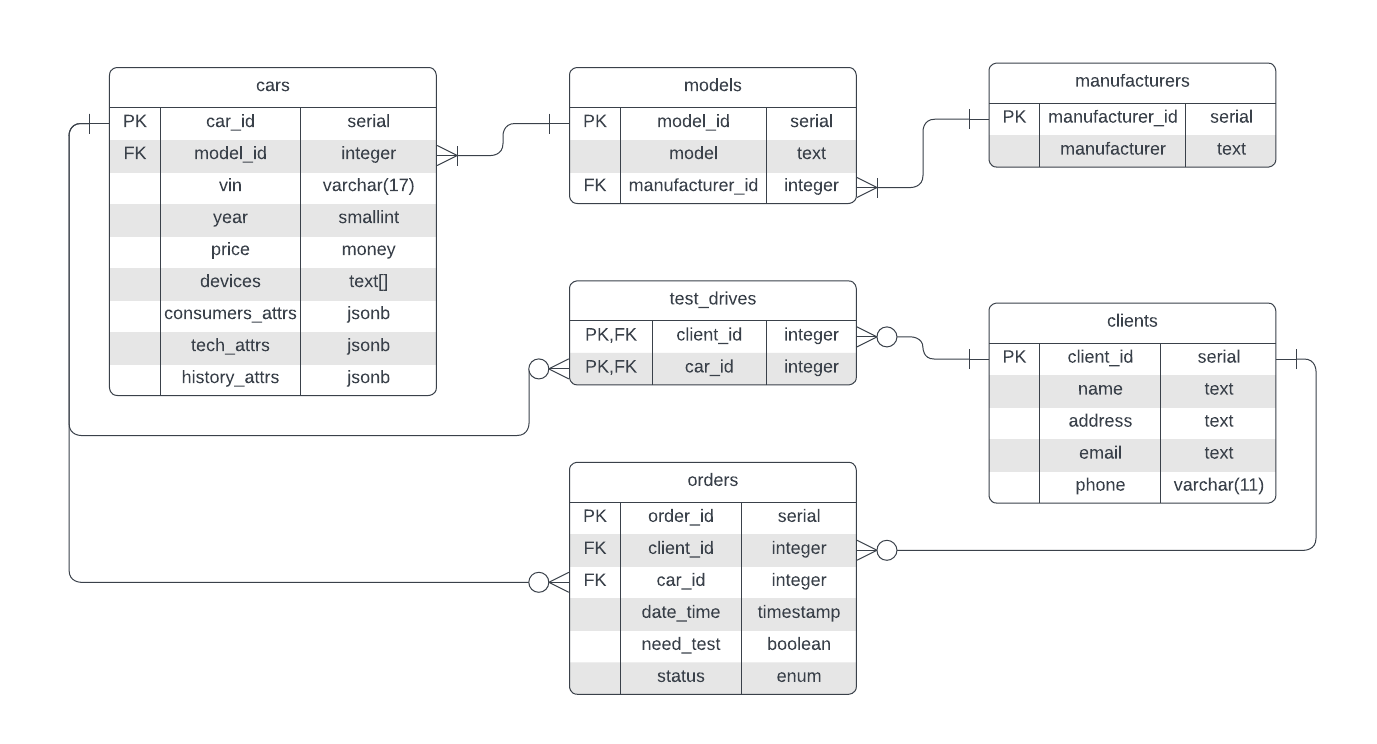
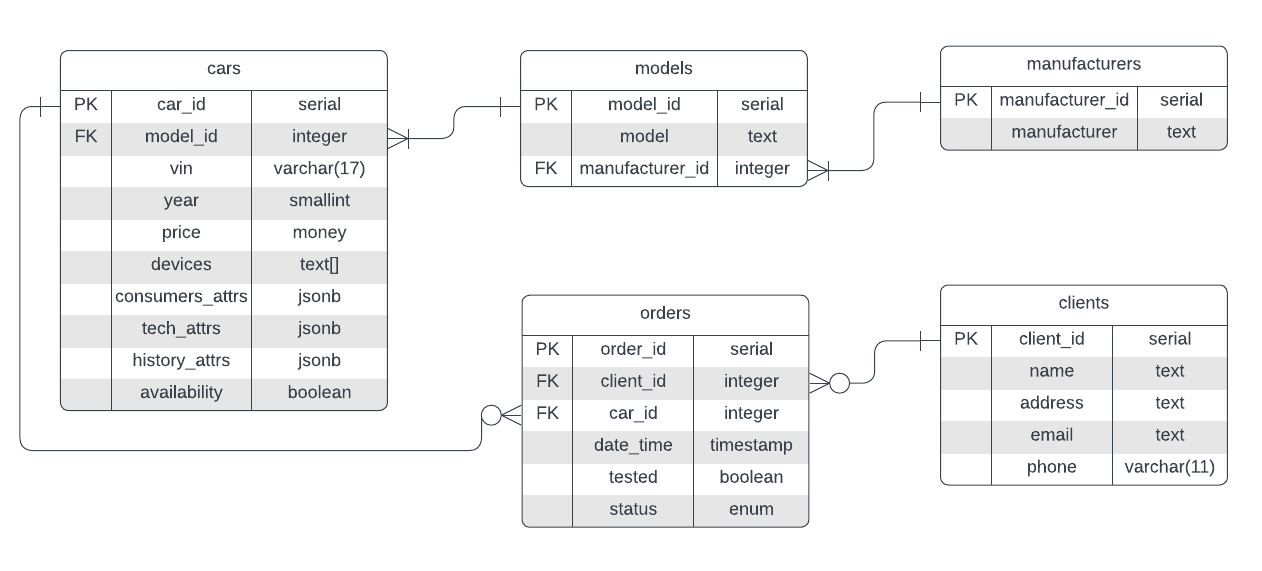
Test-drives fixes

diff --git a/README.md b/README.md
@@ -7,19 +7,19 @@
 * PostgreSQL
 * Файлы создания и заполнения БД лежат в src/main/resources/sql/
 * Характеристики автомобилей хранятся в jsonb-словарях - это позволяет [без потери в производительности](https://habr.com/ru/post/475178/) использовать как стандартные характеристики, так и добавлять при желании новые для данного автомобиля, не внося изменений в структуру БД. 
-* Статусы заказа: "В работе", "Отменён", "Завершён", "На тест-драйве".
+* Статусы заказа: "В работе", "Отменён", "Ожидание оплаты", "Оплачен", "Завершён", "На тест-драйве".
 
 ## Описание страниц
 ![Схема навигации](./pages.png "Схема навигации")
 
 ### **Главная**
 * Мини-дэшборд с некоторой статистикой по базе данных, например, количество автомобилей в наличии, в тест-драйве, число активных заказов и т. п.
-* Меню, содержащее ссылки на основные страницы сайта: каталог автомобилей, список моделей, список производителей, список клиентов, список заказов.
+* Меню, содержащее ссылки на основные страницы сайта: главная, каталог автомобилей, список моделей, список производителей, список клиентов, список заказов. Меню доступно на всех страницах сайта.
 
 ### **Автомобили**
 #### **Каталог автомобилей**
 * По умолчанию выводится список всех автомобилей с пагинацией по страницам. Поле поиска по модели, кнопка "Найти". Поля фильтров, позволяющие задать характеристики автомобиля, кнопка применения фильтров. Кнопки сортировки автомобилей по цене, году выпуска, пробегу.
-* В списке в карточке каждого автомобиля приведена краткая информация о нём (производитель, модель, год выпуска, пробег, цена). По клику на модель можно перейти на страницу модели. По клику на производителя можно перейти на страницу производителя. Кнопка "Удалить", удаляющая автомобиль из БД (каскадно удаляются все заказы и тест-драйвы). Кнопка "Редактировать", переводящая на страницу редактирования автомобиля. Кнопка "Посмотреть", переводяшая на страницу автомобиля.
+* В списке в карточке каждого автомобиля приведена краткая информация о нём (производитель, модель, год выпуска, пробег, наличие, цена). По клику на модель можно перейти на страницу модели. По клику на производителя можно перейти на страницу производителя. Кнопка "Удалить", удаляющая автомобиль из БД (каскадно удаляются все нерабочие заказы). Кнопка "Редактировать", переводящая на страницу редактирования автомобиля. Кнопка "Посмотреть", переводяшая на страницу автомобиля.
 * Кнопка "Добавить автомобиль", переход на страницу добавления автомобиля.
 
 #### **Добавление автомобиля**
@@ -37,10 +37,10 @@
 #### **Страница автомобиля**
 * Информация об автомобиле (характеристики, кликабельные ссылки на клиентов, бравших тест-драйв). По клику на производителя переход на страницу производителя, по клику на модель - на страницу модели.
 * Кнопка "Редактировать", переводящая на страницу редактирования автомобиля. 
-* Кнопка "Удалить", удаляющая автомобиль из БД (каскадно удаляются все заказы и тест-драйвы).
+* Кнопка "Удалить", удаляющая автомобиль из БД (каскадно удаляются все нерабочие заказы).
 
 #### **Редактирование автомобиля**
-Форма редактирования автомобиля с различными полями. Аналогично добавлению.
+Форма редактирования автомобиля с различными полями. Аналогично добавлению. Также можно отредактировать поле "Наличие" (В наличиии или нет).
 
 ### **Модели**
 #### **Список моделей**
@@ -75,7 +75,7 @@
 ### **Клиенты**
 #### **Список клиентов**
 * По умолчанию выводится список всех клиентов с пагинацией по страницам. Поле поиска по ФИО, кнопка "Найти". Поля фильтров, позволяющие задать атрибуты заказов, кнопка применения фильтров.
-* В списке в карточке каждого клиента приведена краткая информация о нём (ФИО, телефон, email). Кнопка "Удалить", удаляющая клиента из БД (каскадно все его заказы и тест-драйвы). Кнопка "Редактировать", переводящая на страницу редактирования клиента. Кнопка "Посмотреть", переводяшая на страницу клиента.
+* В списке в карточке каждого клиента приведена краткая информация о нём (ФИО, телефон, email). Кнопка "Удалить", удаляющая клиента из БД (каскадно все его нерабочие заказы). Кнопка "Редактировать", переводящая на страницу редактирования клиента. Кнопка "Посмотреть", переводяшая на страницу клиента.
 * Кнопка "Добавить клиента", переход на страницу добавления клиента.
 
 #### **Добавление клиента**
@@ -91,7 +91,7 @@
 * Информация о клиенте (id, ФИО, адрес, телефон, email).
 * Список заказов клиента.
 * Кнопка "Редактировать", переводящая на страницу редактирования клиента. 
-* Кнопка "Удалить", удаляющая клиента из БД (каскадно все его заказы и тест-драйвы).
+* Кнопка "Удалить", удаляющая клиента из БД (каскадно все его нерабочие заказы).
 
 #### **Редактирование клиента**
 Форма редактирования клиента с различными полями. Аналогично добавлению.
@@ -99,23 +99,21 @@
 ### **Заказы**
 #### **Список заказов**
 * По умолчанию выводится список всех заказов с пагинацией по страницам. Поле поиска по id заказа, кнопка "Найти". Поля фильтров, позволяющие задать атрибуты заказов, кнопка применения фильтров.
-* В списке в карточке каждого заказа приведена краткая информация о нём (ФИО клиента - кликабельно, производитель + модель автомобиля - кликабельно). Кнопка "Удалить", удаляющая заказ из БД. Кнопка "Редактировать", переводящая на страницу редактирования заказа. Кнопка "Посмотреть", переводяшая на страницу заказа.
+* В списке в карточке каждого заказа приведена информация о нём (ID, ФИО клиента - кликабельно, производитель + модель автомобиля - кликабельно, дата и время создания, статус). Кнопка "Редактировать", переводящая на страницу редактирования заказа. Кнопка "Посмотреть", переводяшая на страницу заказа.
 * Кнопка "Создать заказ", переход на страницу создания заказа.
 
 #### **Создание заказа**
 Форма создания заказа с различными полями.
 * VIN автомобиля. Autocomplete поле. "VIN + производитель + модель".
 * ФИО клиента. Autocomplete поле. "ID + ФИО".
-* Чекбокс "Нужен тест-драйв".
-* Статус заказа. Выпадающий список статусов.
-* Дата и время заполняются автоматически при создании.
+* Статус заказа. Выпадающий список статусов - по умолчанию доступны для выбора "В работе", "Отменён", "Ожидание оплаты", "Оплачен", "Завершён". Если в таблице есть другой заказ с таким автомобилем и статусом "На тест-драйве", то такой статус недоступен для выбора и выводится сообщение, что автомобиль в данный момент занят. Иначе выставление статуса "На тест-драйве" доступно. При выставлении статуса "На тест-драйве" поле-флаг tested ("Был в тест-драйве") устанавливается в True - это сохраняет информацию, что автомобиль в ходе заказа тестировался клиентом.
+* Дата и время заполняются автоматически при создании заказа.
 
 Кнопка "Создать заказ".
 
 #### **Страница заказа**
 * Информация о заказе (информация об автомобиле, клиенте, заказе).
 * Кнопка "Редактировать", переводящая на страницу редактирования заказа. 
-* Кнопка "Удалить", удаляющая заказ из БД.
 
 #### **Редактирование заказа**
 Форма редактирования заказа с различными полями. Аналогично созданию.
@@ -172,7 +170,7 @@
 #### **Редактировать клиента**
 * Страница клиента -> кнопка "Редактировать"
 * Аналогично "Посмотреть страницу клиента", но кнопка "Редактировать"
-#### **Удалить автомобиль**
+#### **Удалить клиента**
 Аналогично "Редактировать клиента", но кнопка "Удалить"
 
 ### **Заказы**
@@ -186,5 +184,12 @@
 #### **Редактировать заказ**
 * Страница заказа -> кнопка "Редактировать"
 * Аналогично "Посмотреть страницу заказа", но кнопка "Редактировать"
-#### **Удалить автомобиль**
-Аналогично "Редактировать заказ", но кнопка "Удалить"
+
+### **Тест-драйвы**
+#### **Информация о тест-драйве в рамках заказа**
+Страница заказа -> возможен статус "На тест-драйве",  булево поле "Был на тест-драйве".
+#### **Тест-драйвы клиента**
+* Страница клиента -> список заказов -> в карточке заказа возможен статус "На тест-драйве"
+* Страница клиента -> список заказов -> страница заказа -> возможен статус "На тест-драйве",  булево поле "Был в тест-драйве"
+#### **Тест-драйвы автомобиля**
+* Страница автомобиля -> список клиентов, бравших автомобиль на тест-драйв; клиент, у которого автомобиль сейчас на тест-драйве
